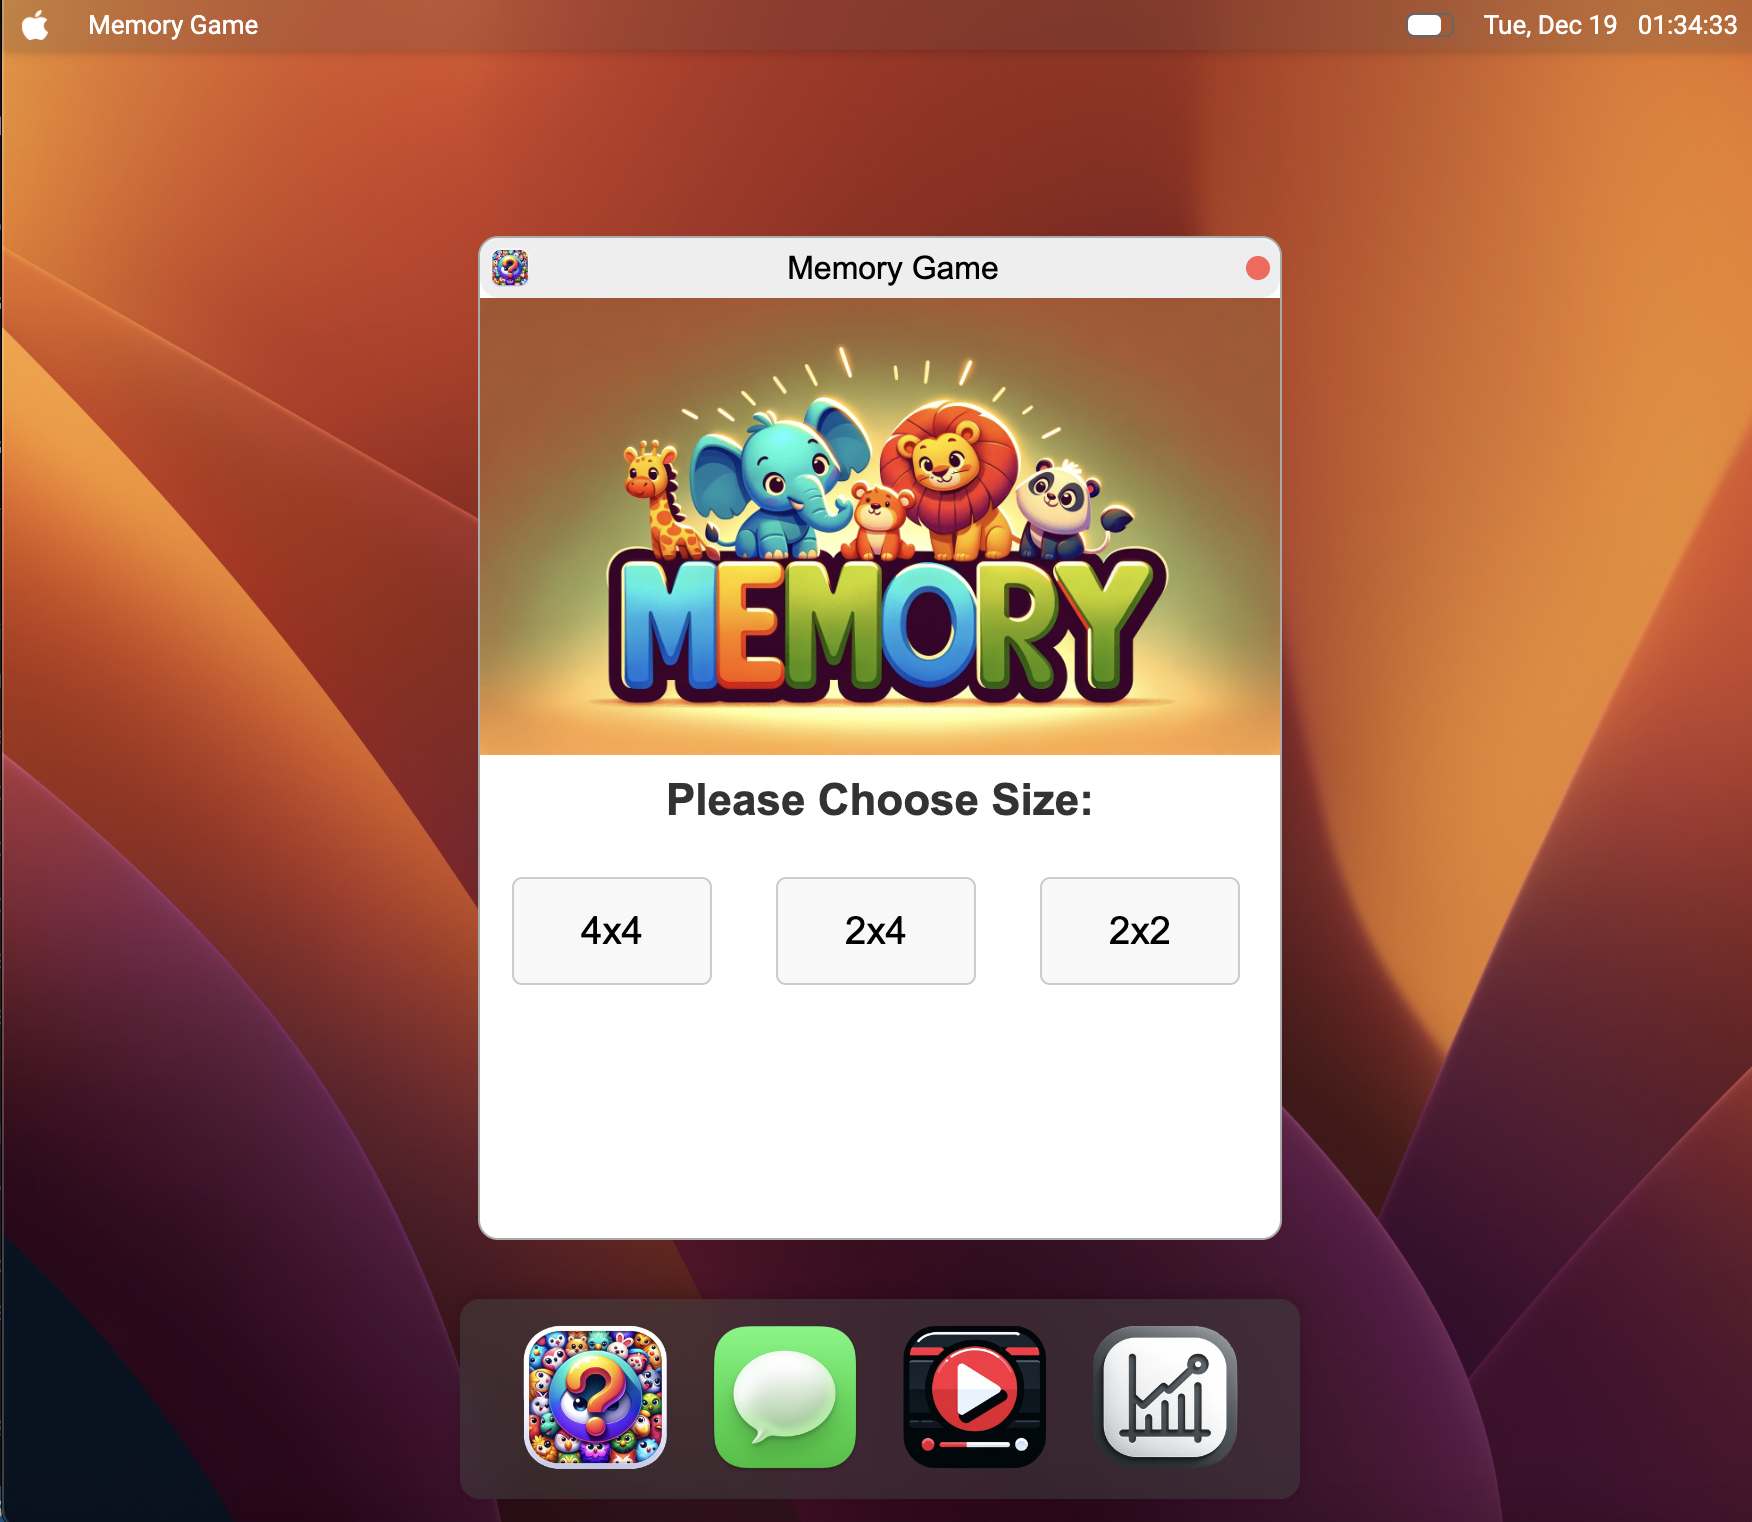
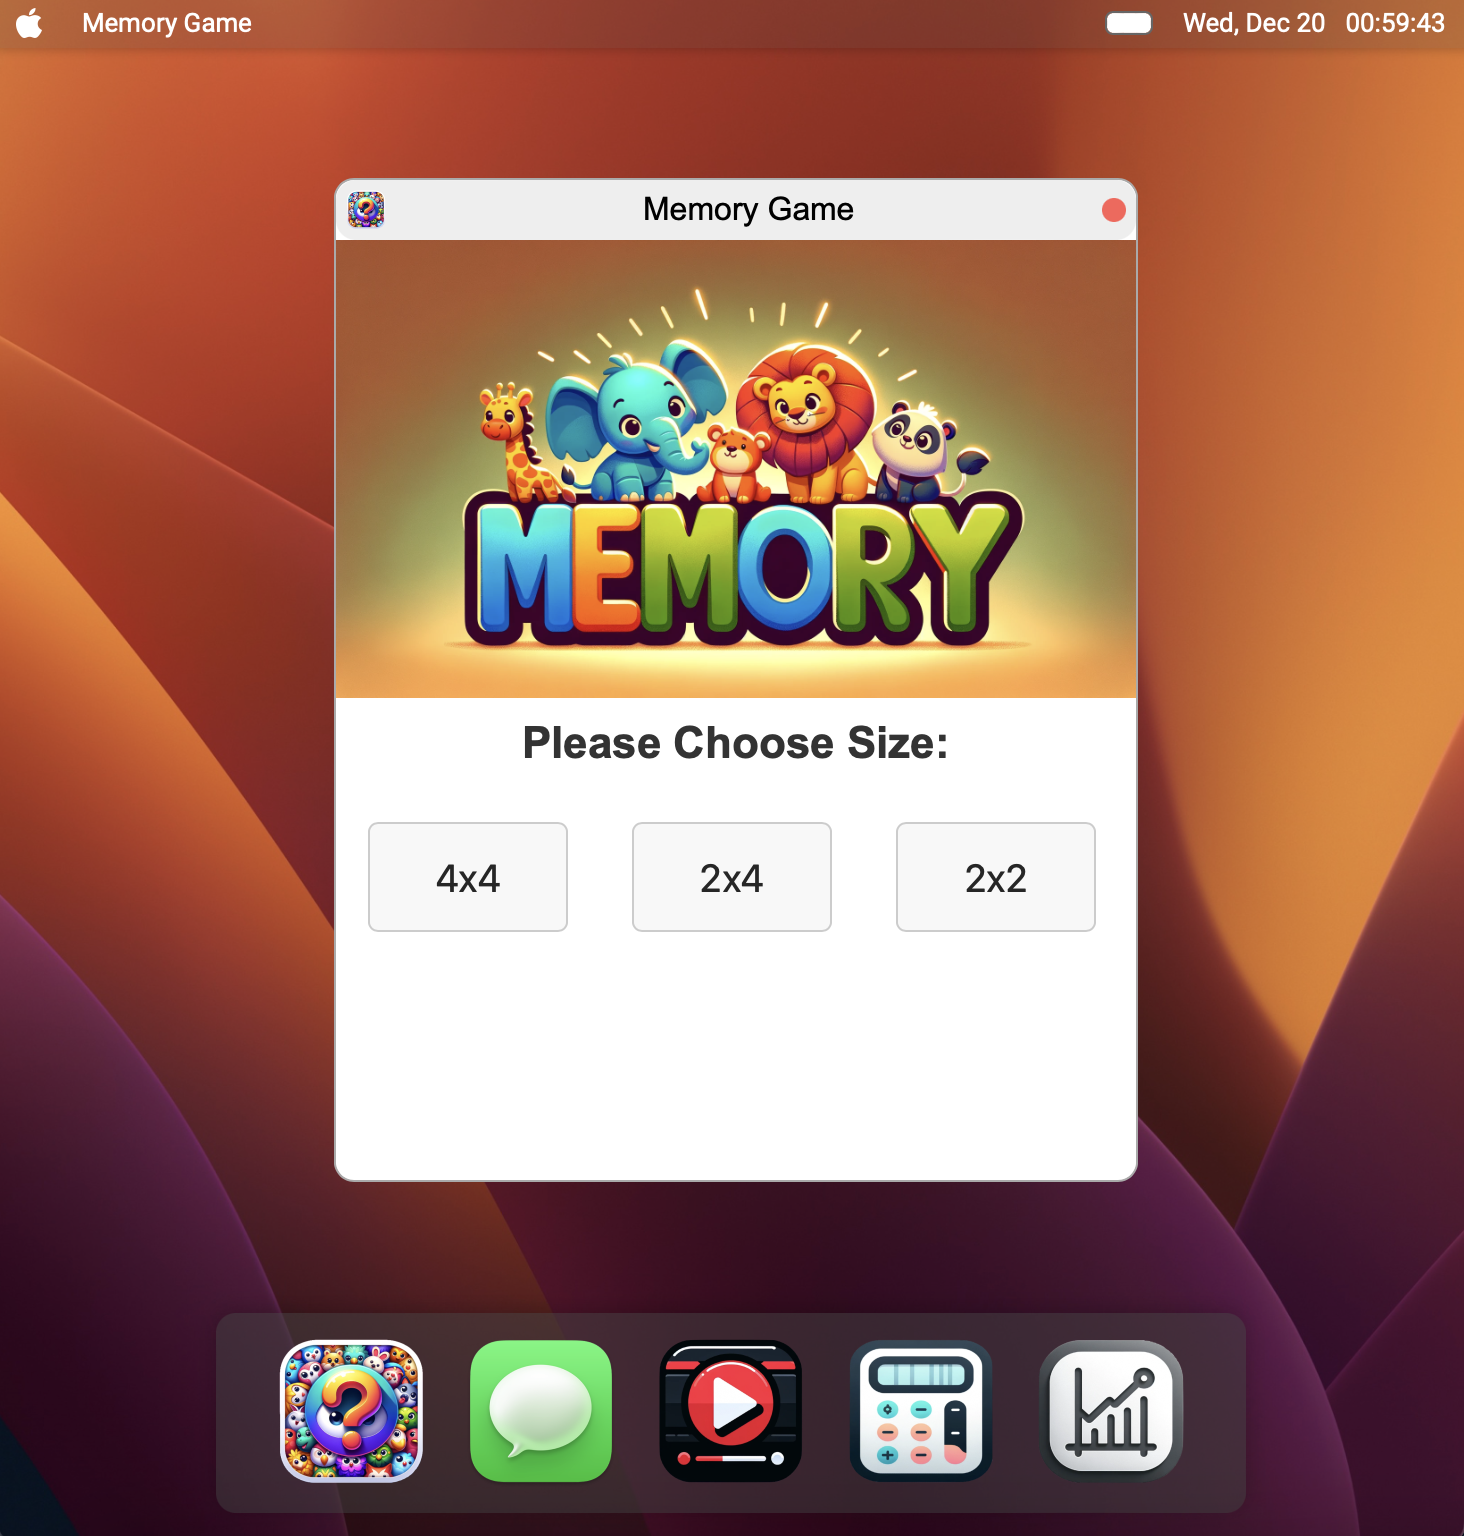
Added calculator app

diff --git a/src/js/calculator.js b/src/js/calculator.js
@@ -1,0 +1,68 @@
+/**
+ * Opens the calculator app in the specified container.
+ * @param {HTMLElement} container - The container element.
+ */
+export function openCalculatorApp(container) {
+  container.innerHTML = '';
+
+  const display = document.createElement('input');
+  display.type = 'text';
+  display.readOnly = true;
+  display.className = 'calculator-display';
+
+  const keys = [
+    '7', '8', '9', '÷',
+    '4', '5', '6', '×',
+    '1', '2', '3', '-',
+    '0', '.', '=', '+',
+    'C',
+  ];
+
+  const operations = ['÷', '×', '-', '+', '=']; // Define operation keys
+
+  const keysContainer = document.createElement('div');
+  keysContainer.className = 'calculator-keys';
+
+  keys.forEach((key) => {
+    const button = document.createElement('button');
+    button.textContent = key;
+    button.className = 'calculator-button';
+
+    // Add 'calculator-button-op' class for operation buttons
+    if (operations.includes(key)) {
+      button.classList.add('op');
+    }
+
+    button.onclick = () => handleButtonClick(key, display);
+    keysContainer.appendChild(button);
+  });
+
+  container.appendChild(display);
+  container.appendChild(keysContainer);
+}
+
+/**
+ * Handles button click event and updates the display value accordingly.
+ * @param {string} key - The key value of the clicked button.
+ * @param {HTMLInputElement} display - The display element.
+ */
+function handleButtonClick(key, display) {
+  if (key === 'C') {
+    display.value = '';
+  } else if (key === '=') {
+    try {
+      let expression = display.value;
+      expression = expression.replace(/÷/g, '/').replace(/×/g, '*');
+      display.value = eval(expression);
+    } catch {
+      display.value = 'Error';
+    }
+  } else {
+    if (display.value.length > 8) {
+      return;
+    } else {
+      display.value += key;
+    }
+  }
+}
+

diff --git a/src/index.html b/src/index.html
@@ -10,6 +10,7 @@
     <link rel="stylesheet" href="css/chatApp.css">
     <link rel="stylesheet" href="css/youtubeApp.css">
     <link rel="stylesheet" href="css/taskManager.css">
+    <link rel="stylesheet" href="css/calculator.css">
     <link rel="icon" type="image/png" href="favicon.ico">
 
 </head>
@@ -17,20 +18,24 @@
     <div id="desktop">
         <div id="status-bar"></div>
         <div id="dock">
-            <div class="icon-container" id="memory-game-icon" title="Memory Game">
+            <div class="icon-container" id="memory-game-icon" data-tooltip="Memory Game">
                 <div class="icon icon-memory"></div>
             </div>
-            <div class="icon-container" id="chat-icon" title="Messages">
+            <div class="icon-container" id="chat-icon" data-tooltip="Messages">
                 <div class="icon icon-chat"></div>
             </div>
-            <div class="icon-container" id="youtube-icon" title="Youtube Player">
+            <div class="icon-container" id="youtube-icon" data-tooltip="Youtube Player">
                 <div class="icon icon-youtube"></div>
             </div>
-            <div class="icon-container" id="task-icon" title="Task Manager">
+            <div class="icon-container" id="calculator-icon" data-tooltip="Calculator">
+                <div class="icon icon-calculator"></div>
+            </div>
+            <div class="icon-container" id="task-icon" data-tooltip="Task Manager">
                 <div class="icon icon-taskmanager"></div>
             </div>
         </div>
     </div>
+    <script type="module" src="js/calculator.js"></script>
     <script type="module" src="js/statusbar.js"></script>
     <script type="module" src="js/taskManager.js"></script>
     <script type="module" src="js/youtubePlayer.js"></script>

diff --git a/src/js/script.js b/src/js/script.js
@@ -2,10 +2,12 @@ import {openTaskManager} from './taskManager.js';
 import {openYouTubeApp} from './youtubePlayer.js';
 import {openChatApp} from './chat.js';
 import {loadMemoryGame} from './memory.js';
+import {openCalculatorApp} from './calculator.js';
 import memoryGameIcon from '../img/memory.png';
 import chatIcon from '../img/messages.png';
 import youtubeIcon from '../img/youtube.png';
 import taskManagerIcon from '../img/taskManager.png';
+import calculatorIcon from '../img/calculator.png';
 
 
 document.addEventListener('DOMContentLoaded', () => {
@@ -19,6 +21,7 @@ document.addEventListener('DOMContentLoaded', () => {
   addListener('chat-icon', 'Messages');
   addListener('youtube-icon', 'Youtube');
   addListener('task-icon', 'Task Manager');
+  addListener('calculator-icon', 'Calculator');
   /**
    * Adds a click event listener to the element with the specified id.
    * @param {string} id - The id of the element.
@@ -54,6 +57,9 @@ document.addEventListener('DOMContentLoaded', () => {
       case 'Task Manager':
         iconSrc = taskManagerIcon;
         break;
+      case 'Calculator':
+        iconSrc = calculatorIcon;
+        break;
     }
     const desktop = document.getElementById('desktop');
     const windowElement = document.createElement('div');
@@ -88,6 +94,11 @@ document.addEventListener('DOMContentLoaded', () => {
         break;
       case 'Task Manager':
         openTaskManager(contentContainer);
+        windowElement.style.zIndex = ++currentZIndex;
+        updateActiveWindowTitle();
+        break;
+      case 'Calculator':
+        openCalculatorApp(contentContainer);
         windowElement.style.zIndex = ++currentZIndex;
         updateActiveWindowTitle();
         break;

diff --git a/src/css/calculator.css b/src/css/calculator.css
@@ -1,0 +1,42 @@
+.calculator-display {
+    width: 94%;
+    padding: 10px;
+    margin-left: 1px;
+    margin-bottom: 10px;
+    font-size: 4em;
+    border: 1px solid #ddd;
+    border-radius: 5px;
+    text-align: right;
+  }
+  
+  .calculator-keys {
+    display: grid;
+    margin-left: 10px;
+    margin-right: 10px;
+    grid-template-columns: repeat(4, 1fr); 
+    gap: 10px;
+  }
+  
+  .calculator-button {
+    padding: 10px;
+    font-size: 2em;
+    border: none;
+    border-radius: 5px;
+    background-color: #f0f0f0;
+    cursor: pointer;
+    transition: background-color 0.3s;
+  }
+  
+  .calculator-button:hover {
+    background-color: #e0e0e0;
+  }
+
+  .calculator-button.op {
+    background-color: #fe9241;
+    color: white;
+  }
+  
+  .calculator-button.op:hover {
+    background-color: #ffab66;
+  }
+  

diff --git a/src/css/desktop.css b/src/css/desktop.css
@@ -31,6 +31,7 @@ body, html {
     border-radius: 10px;
     box-shadow: 0 -2px 10px rgba(0 0 0 / 20%);
     padding: 0 20px; /* Added padding */
+    z-index: 10000;
 }
 
 .icon-memory {
@@ -48,6 +49,11 @@ body, html {
 .icon-taskmanager {
     background-image: url('../img/taskManager.png');
 }
+
+.icon-calculator {
+    background-image: url('../img/calculator.png');
+}
+
 
 @keyframes jump {
     0%, 100% {
@@ -81,7 +87,7 @@ body, html {
   }
   
   .icon-container:hover::after {
-    content: attr(title);
+    content: attr(data-tooltip);
     visibility: visible;
     opacity: 1;
     width: auto;

diff --git a/README.md b/README.md
@@ -33,25 +33,21 @@ The status bar when memory game is open. We are also hovering our mouse over the
 
 <img src="./img/memory_game_screenshot.png" alt="Memory Game Screenshot" width="300">
 
-The Memory Game application.
-
 ### Chat Application
 
 <img src="./img/chat_app_screenshot.png" alt="Chat Application Screenshot" width="300">
-
-The Chat application.
 
 ### Task Manager
 
 <img src="./img/task_manager_screenshot.png" alt="Task Manager Screenshot" width="300">
 
-The Task Manager application.
+### Calculator Application
+
+<img src="./img/calculator_screenshot.png" alt="Task Manager Screenshot" width="300">
 
 ### YouTube Player
 
 <img src="./img/youtube_player_screenshot.png" alt="YouTube Player Screenshot" width="300">
-
-The YouTube Player application.
 
 ## Getting Started
 
@@ -65,7 +61,7 @@ This project runs in the browser, so no special prerequisites are required.
 
 1. Clone the repo
    ```sh
-   git clone https://github.com/your_username_/Project-Name.git
+   git clone
    ```
 2. Open `index.html` in your browser
 
@@ -152,6 +148,25 @@ The task manager provides an overview of all currently open windows in the appli
 - The task manager allows users to close individual windows or all windows of a specific application at once.
 - The task manager remembers the expanded/collapsed state of each application group, so if a group was expanded the last time the task manager was updated, it will remain expanded 
 in the next update.
+
+### Calculator
+
+The Calculator app allows users to perform basic calculations, including addition, subtraction, multiplication, and division, within the application.
+
+#### How to Use
+
+1. Click on the Calculator icon to open the app.
+2. Use the displayed buttons to input numbers and arithmetic operations.
+3. Click on the `=` button to calculate the result. The result will be displayed in the input field at the top of the calculator.
+4. To start a new calculation or clear the current input, click the `C` button.
+
+#### Features
+
+- Supports basic operations including addition (`+`), subtraction (`-`), multiplication (`×`), and division (`÷`).
+- The calculator features a grid of buttons representing digits and operations for easy input.
+- Results are displayed immediately after pressing the `=` button.
+-  Displays an error message in case of invalid input or calculation errors.
+- A 9 character limit is in place to prevent digits from going out of frame
 
 ### YouTube Player
 
